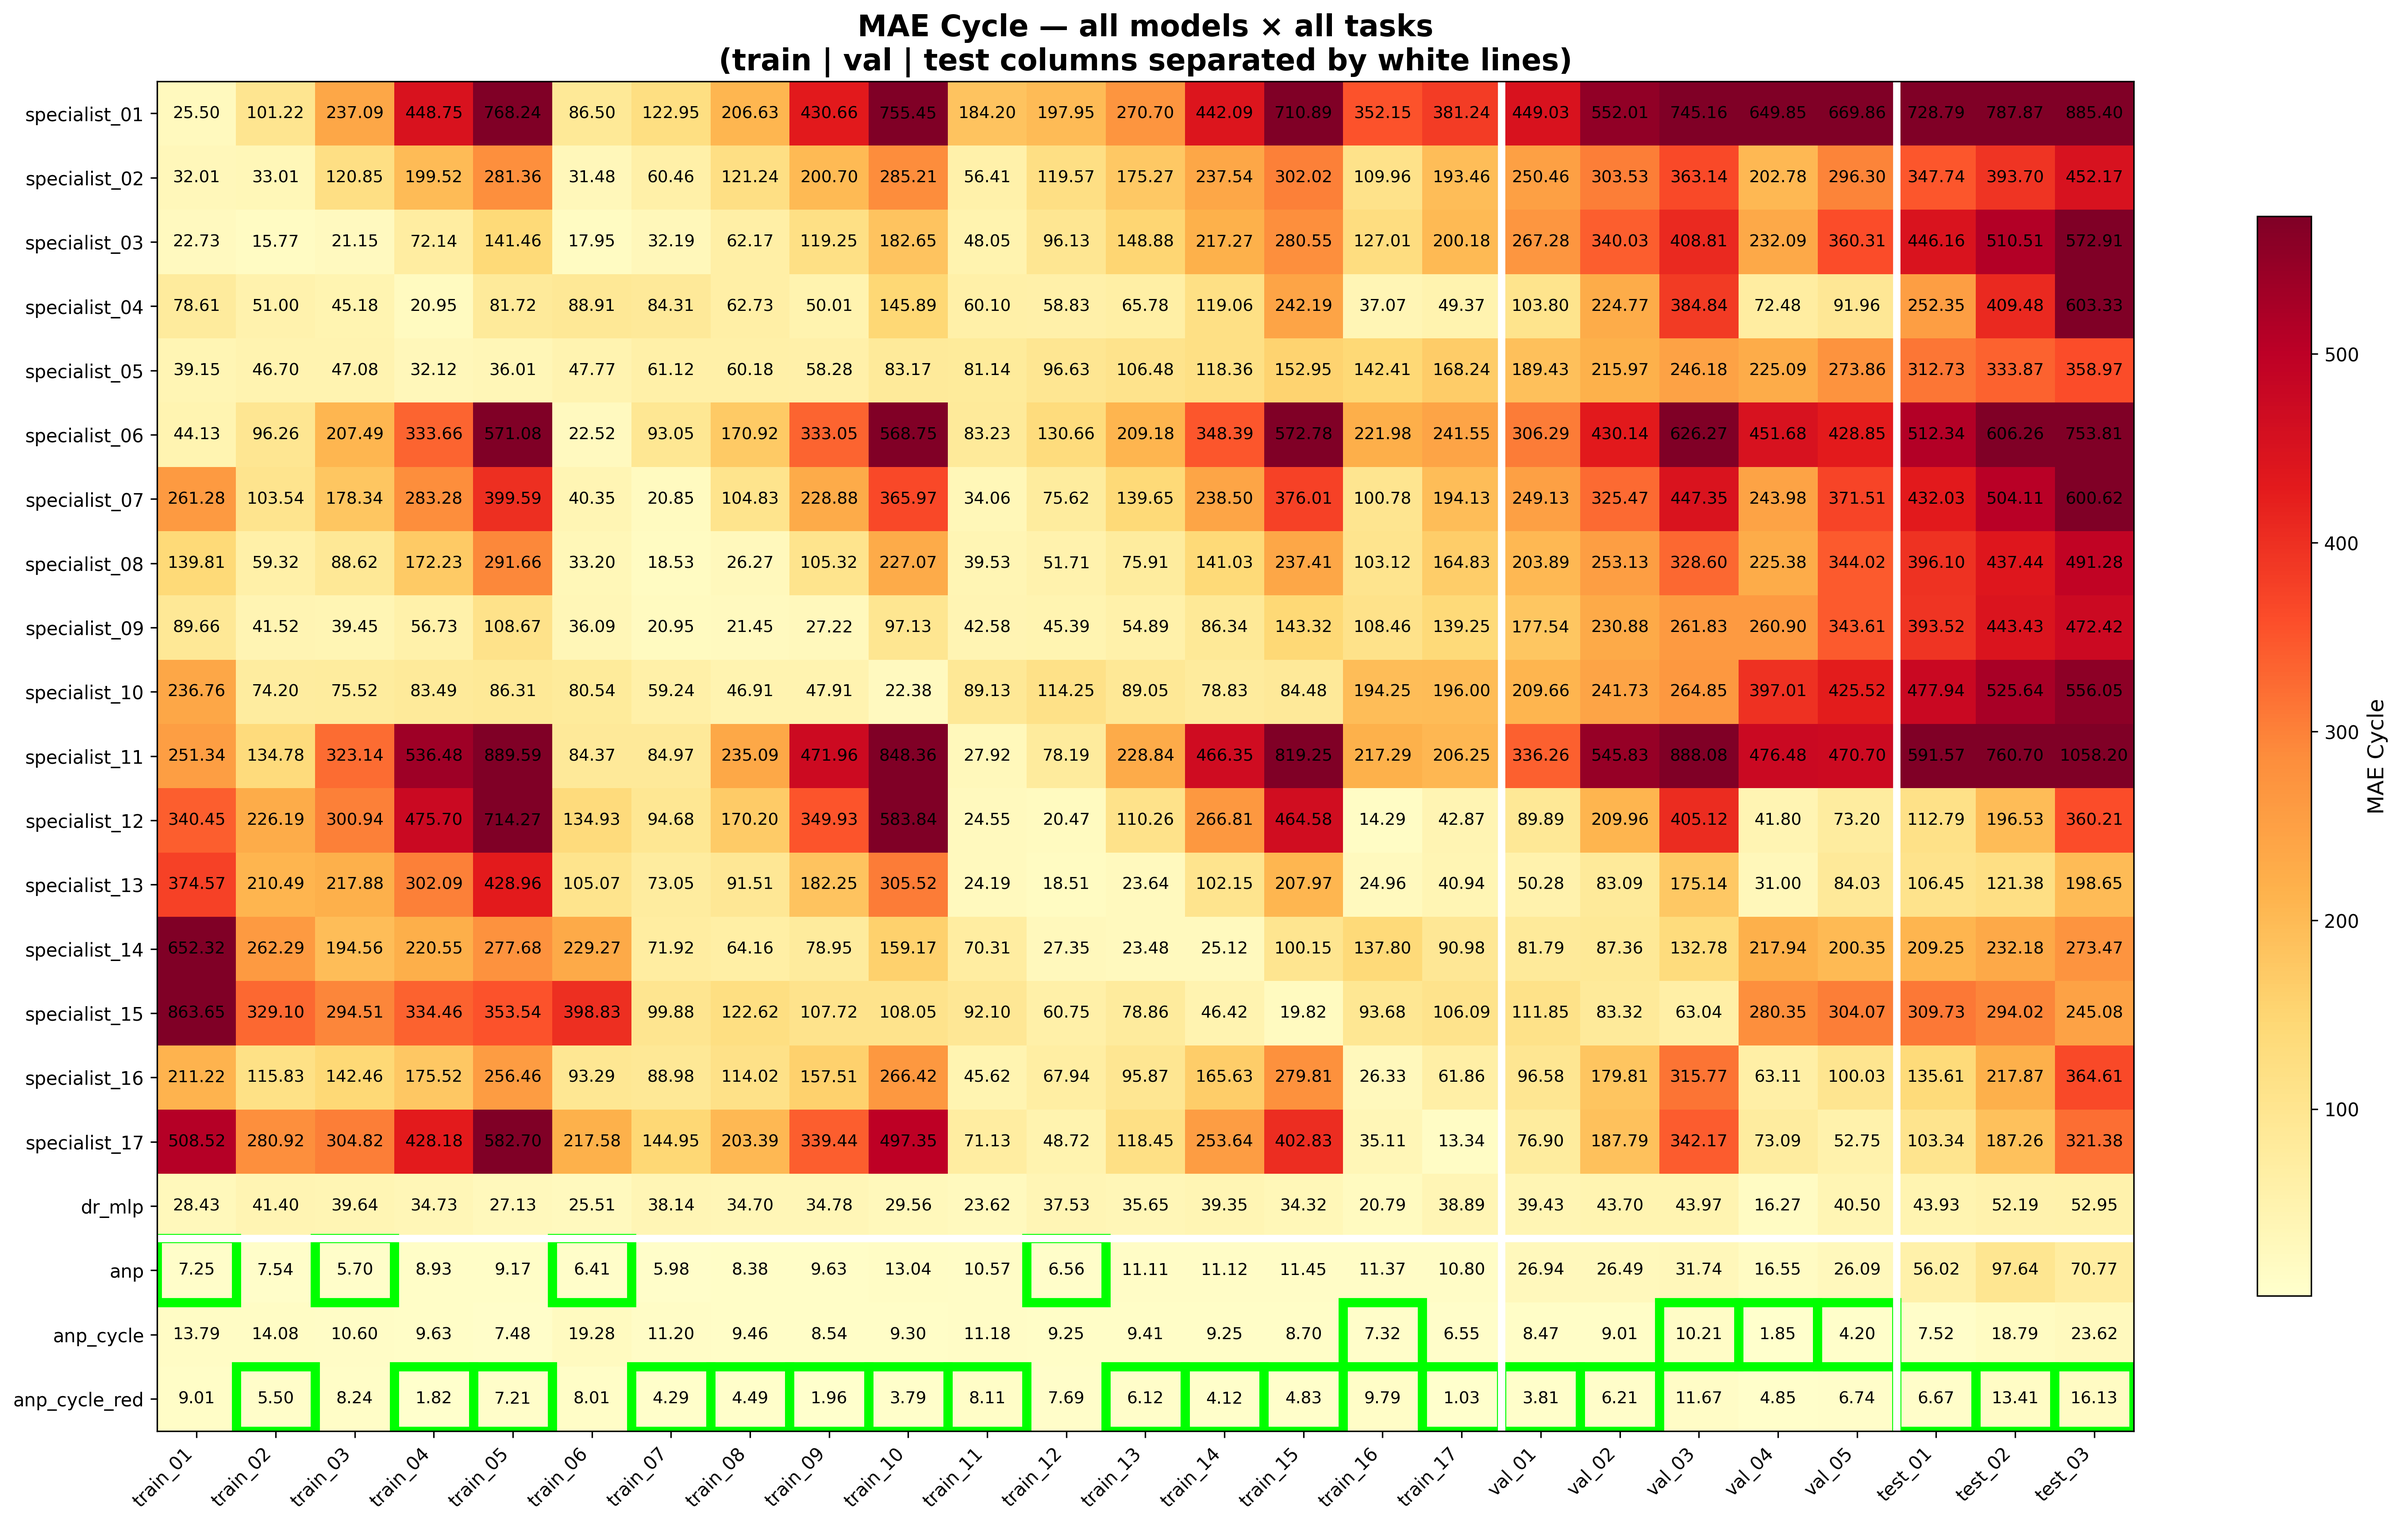
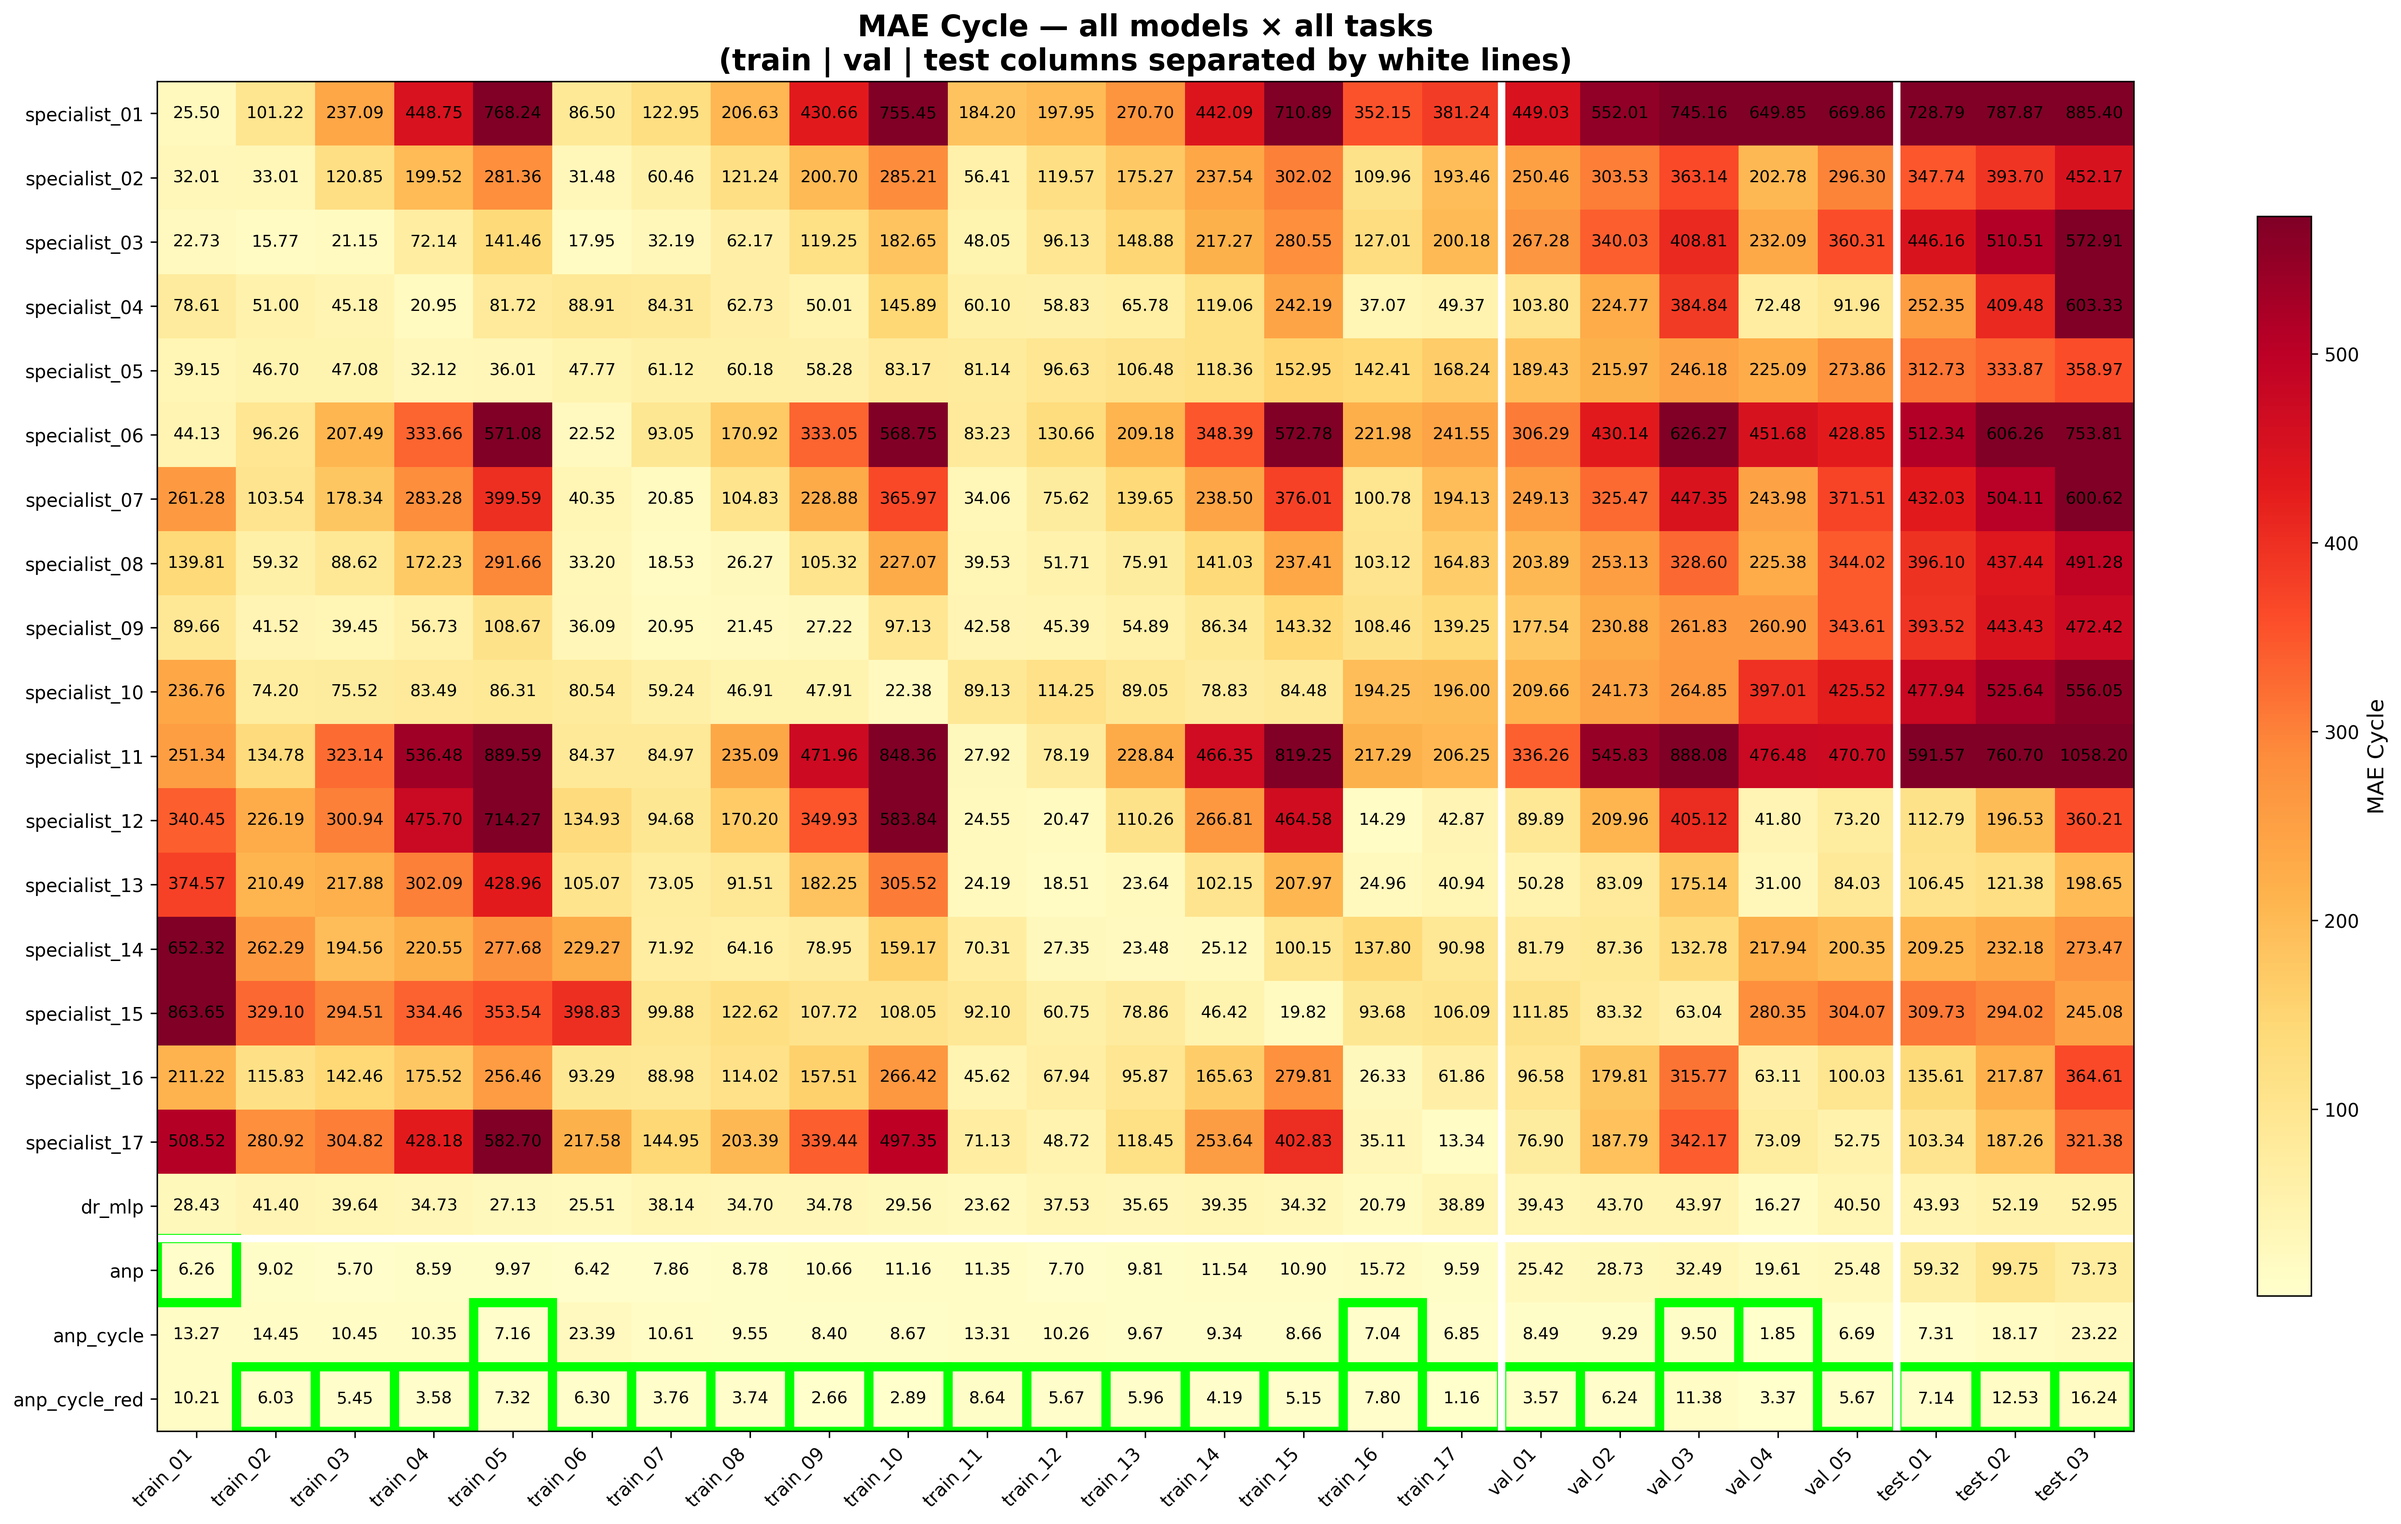
Remove outdated evaluation results and update summary statistics
- Deleted obsolete heatmap images: mae_cycle_heatmap.png and mae_soc_heatmap.png.
- Removed summary.txt containing previous validation results.
- Updated mae_Cycle.csv and mae_SoC_pct.csv with new evaluation metrics.
- Adjusted values in mae_comparison.csv to reflect recent model performance.
- Revised summary statistics in summary.txt for clarity and accuracy.

diff --git a/csic/evaluate/evaluate.py b/csic/evaluate/evaluate.py
@@ -38,7 +38,7 @@ Usage:
         --anp_run              ../train/runs/anp_all/20260512_124715 \
         --anp_soc_run          ../train/runs/anp_SoC/20260512_114601 \
         --anp_cycle_run        ../train/runs/anp_Cycle_reduced/20260519_122631 \
-        --anp_soc_reduced_run  ../train/optuna_results/anp_soc_reduced/trial_031 \
+        --anp_soc_reduced_run  ../train/optuna_results/anp_soc_reduced/trial_163 \
         --anp_cycle_reduced_run ../train/runs/anp_Cycle_reduced_agg_enriched/20260521_124941 \
         --data_dir             ../csic_real_synth_load/prepared_data
 
